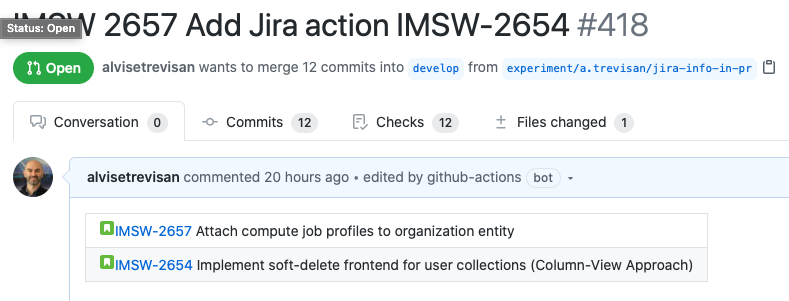
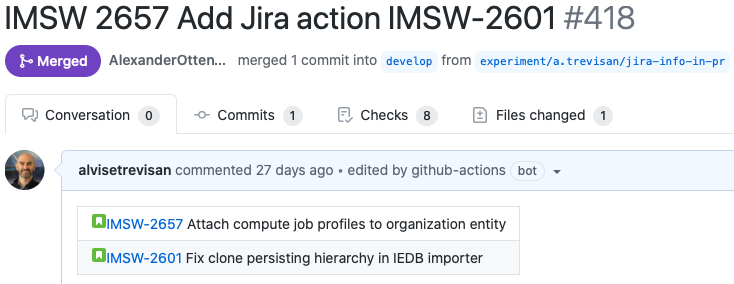
Don't exit with error when unnecessary

diff --git a/src/main.ts b/src/main.ts
@@ -12,7 +12,7 @@ async function run(): Promise<void> {
     const jiraConnector = new JiraConnector();
 
     if (!githubConnector.isPRAction) {
-      console.log('This action meant to be run only on PRs');
+      console.log('This action is meant to be run only on PRs');
       process.exit(0);
     }
 
@@ -20,14 +20,14 @@ async function run(): Promise<void> {
 
     if (skipBranch) {
       console.log('Skipping action on this branch');
-      process.exit(1);
+      process.exit(0);
     }
 
     const issueKeys = githubConnector.getIssueKeysFromTitle();
 
     if (!issueKeys) {
       console.log('Could not find any issue keys');
-      process.exit(1);
+      process.exit(0);
     }
 
     console.log(`Fetching details for JIRA keys ${issueKeys}`);

diff --git a/CHANGELOG.md b/CHANGELOG.md
@@ -1,3 +1,6 @@
+## 0.3.0
+* Don't exit with error when skipping action or no JIRA issue could be found
+  
 ## 0.2.0
 * Add option to skip encoding of Jira token
 * Change default regex to allow spaces between project and issue number
